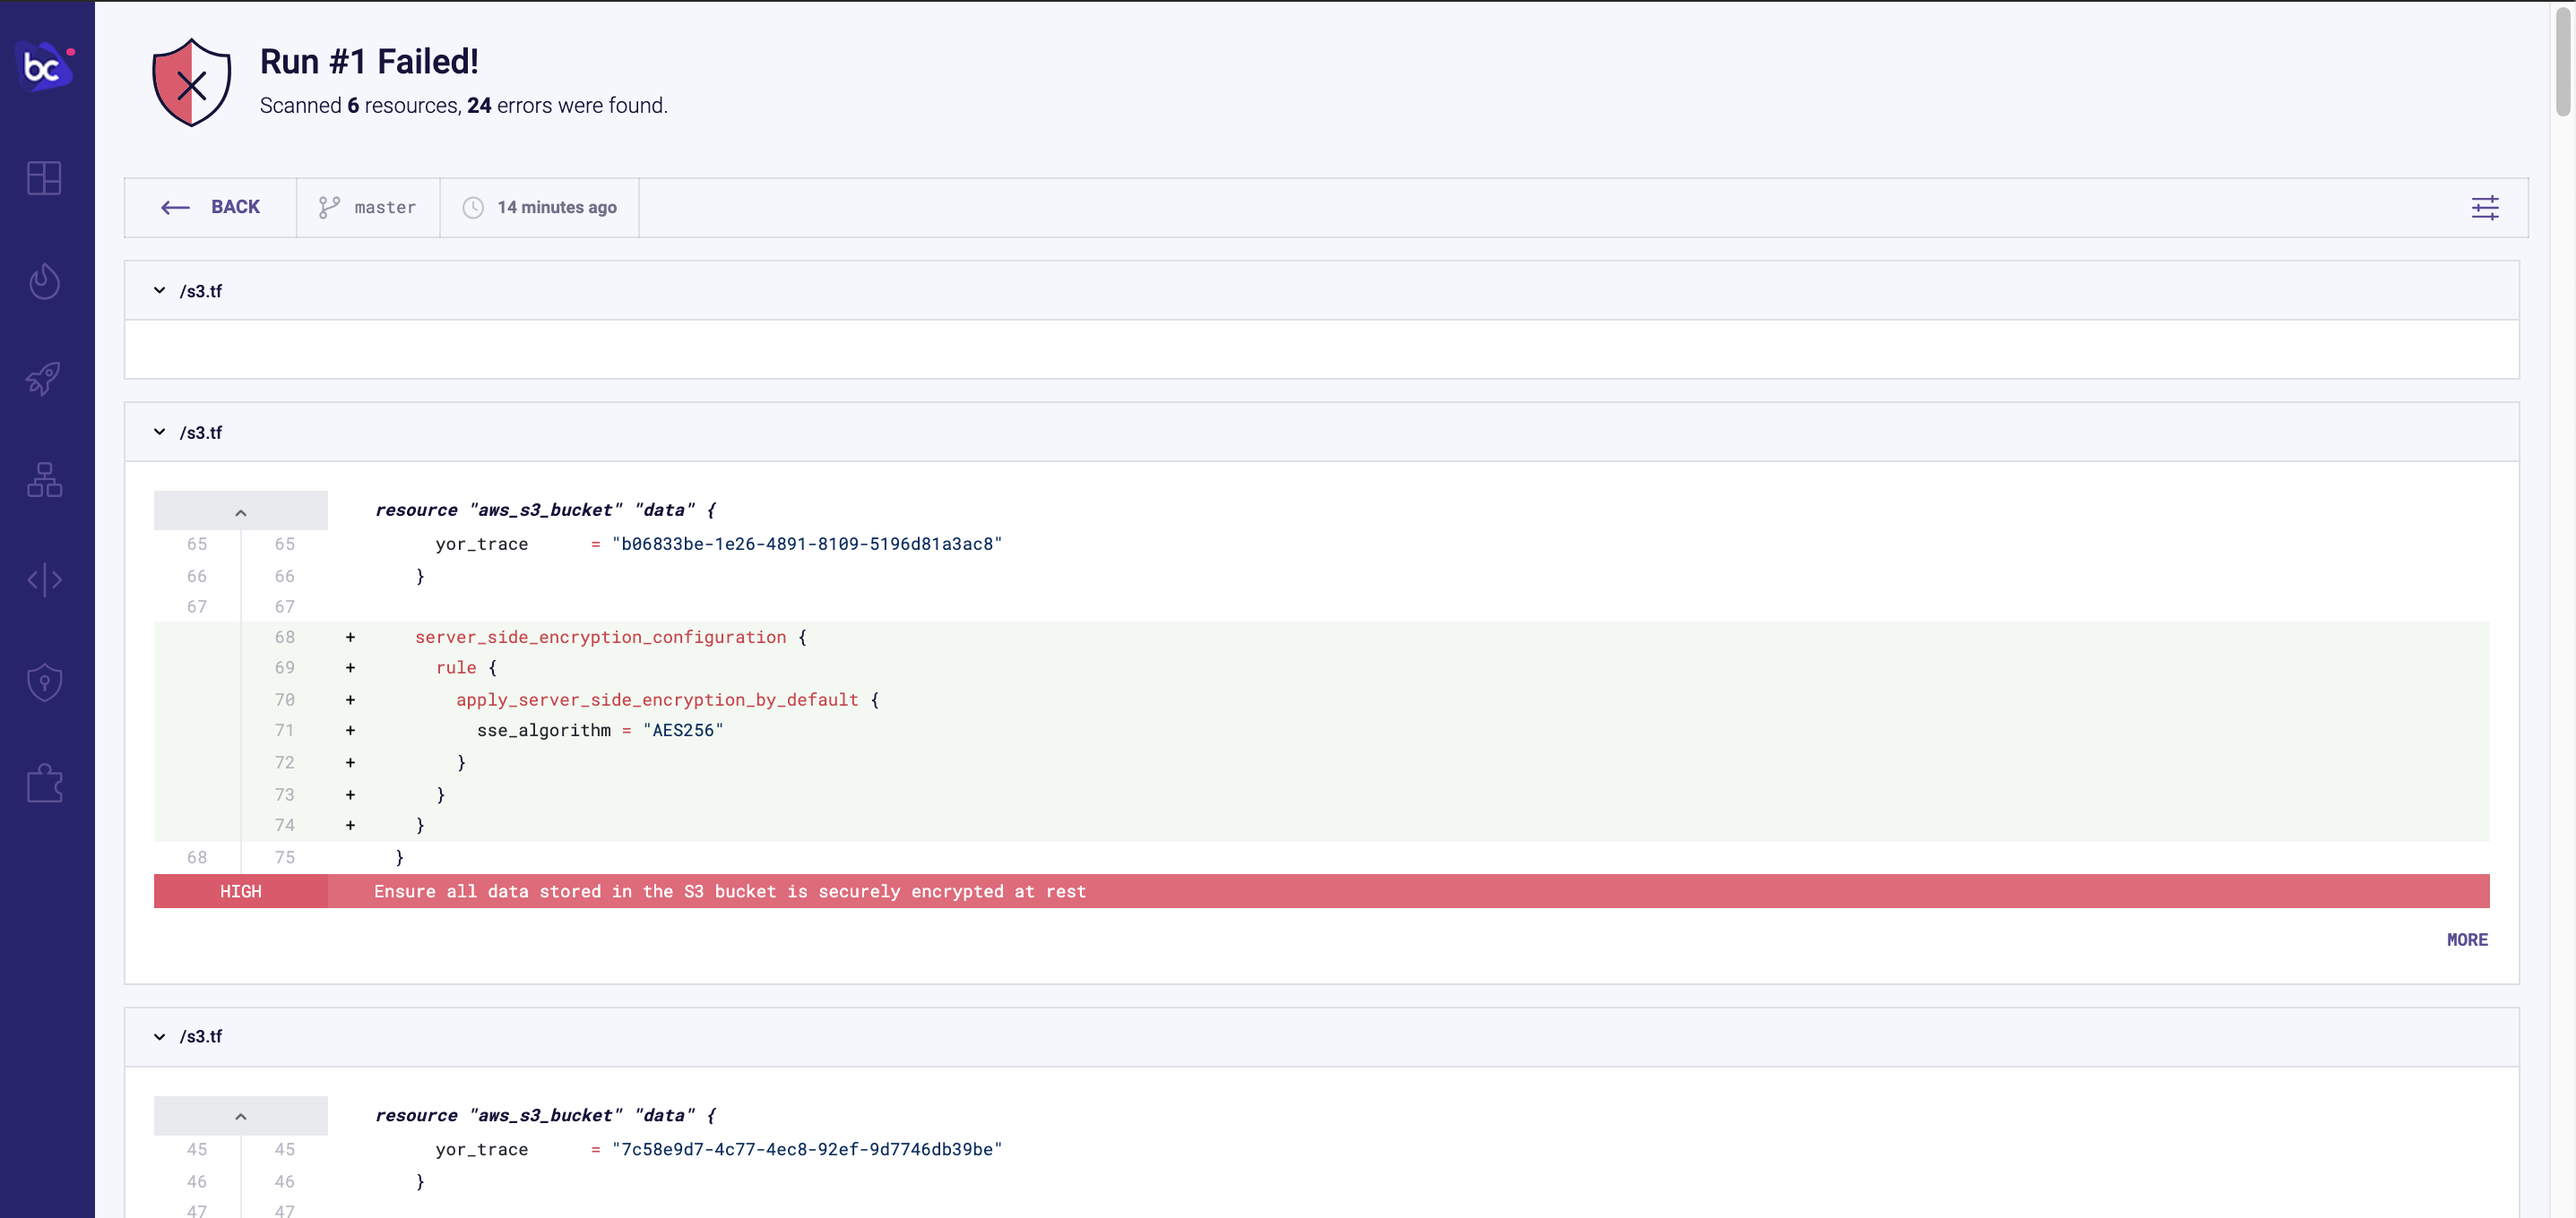
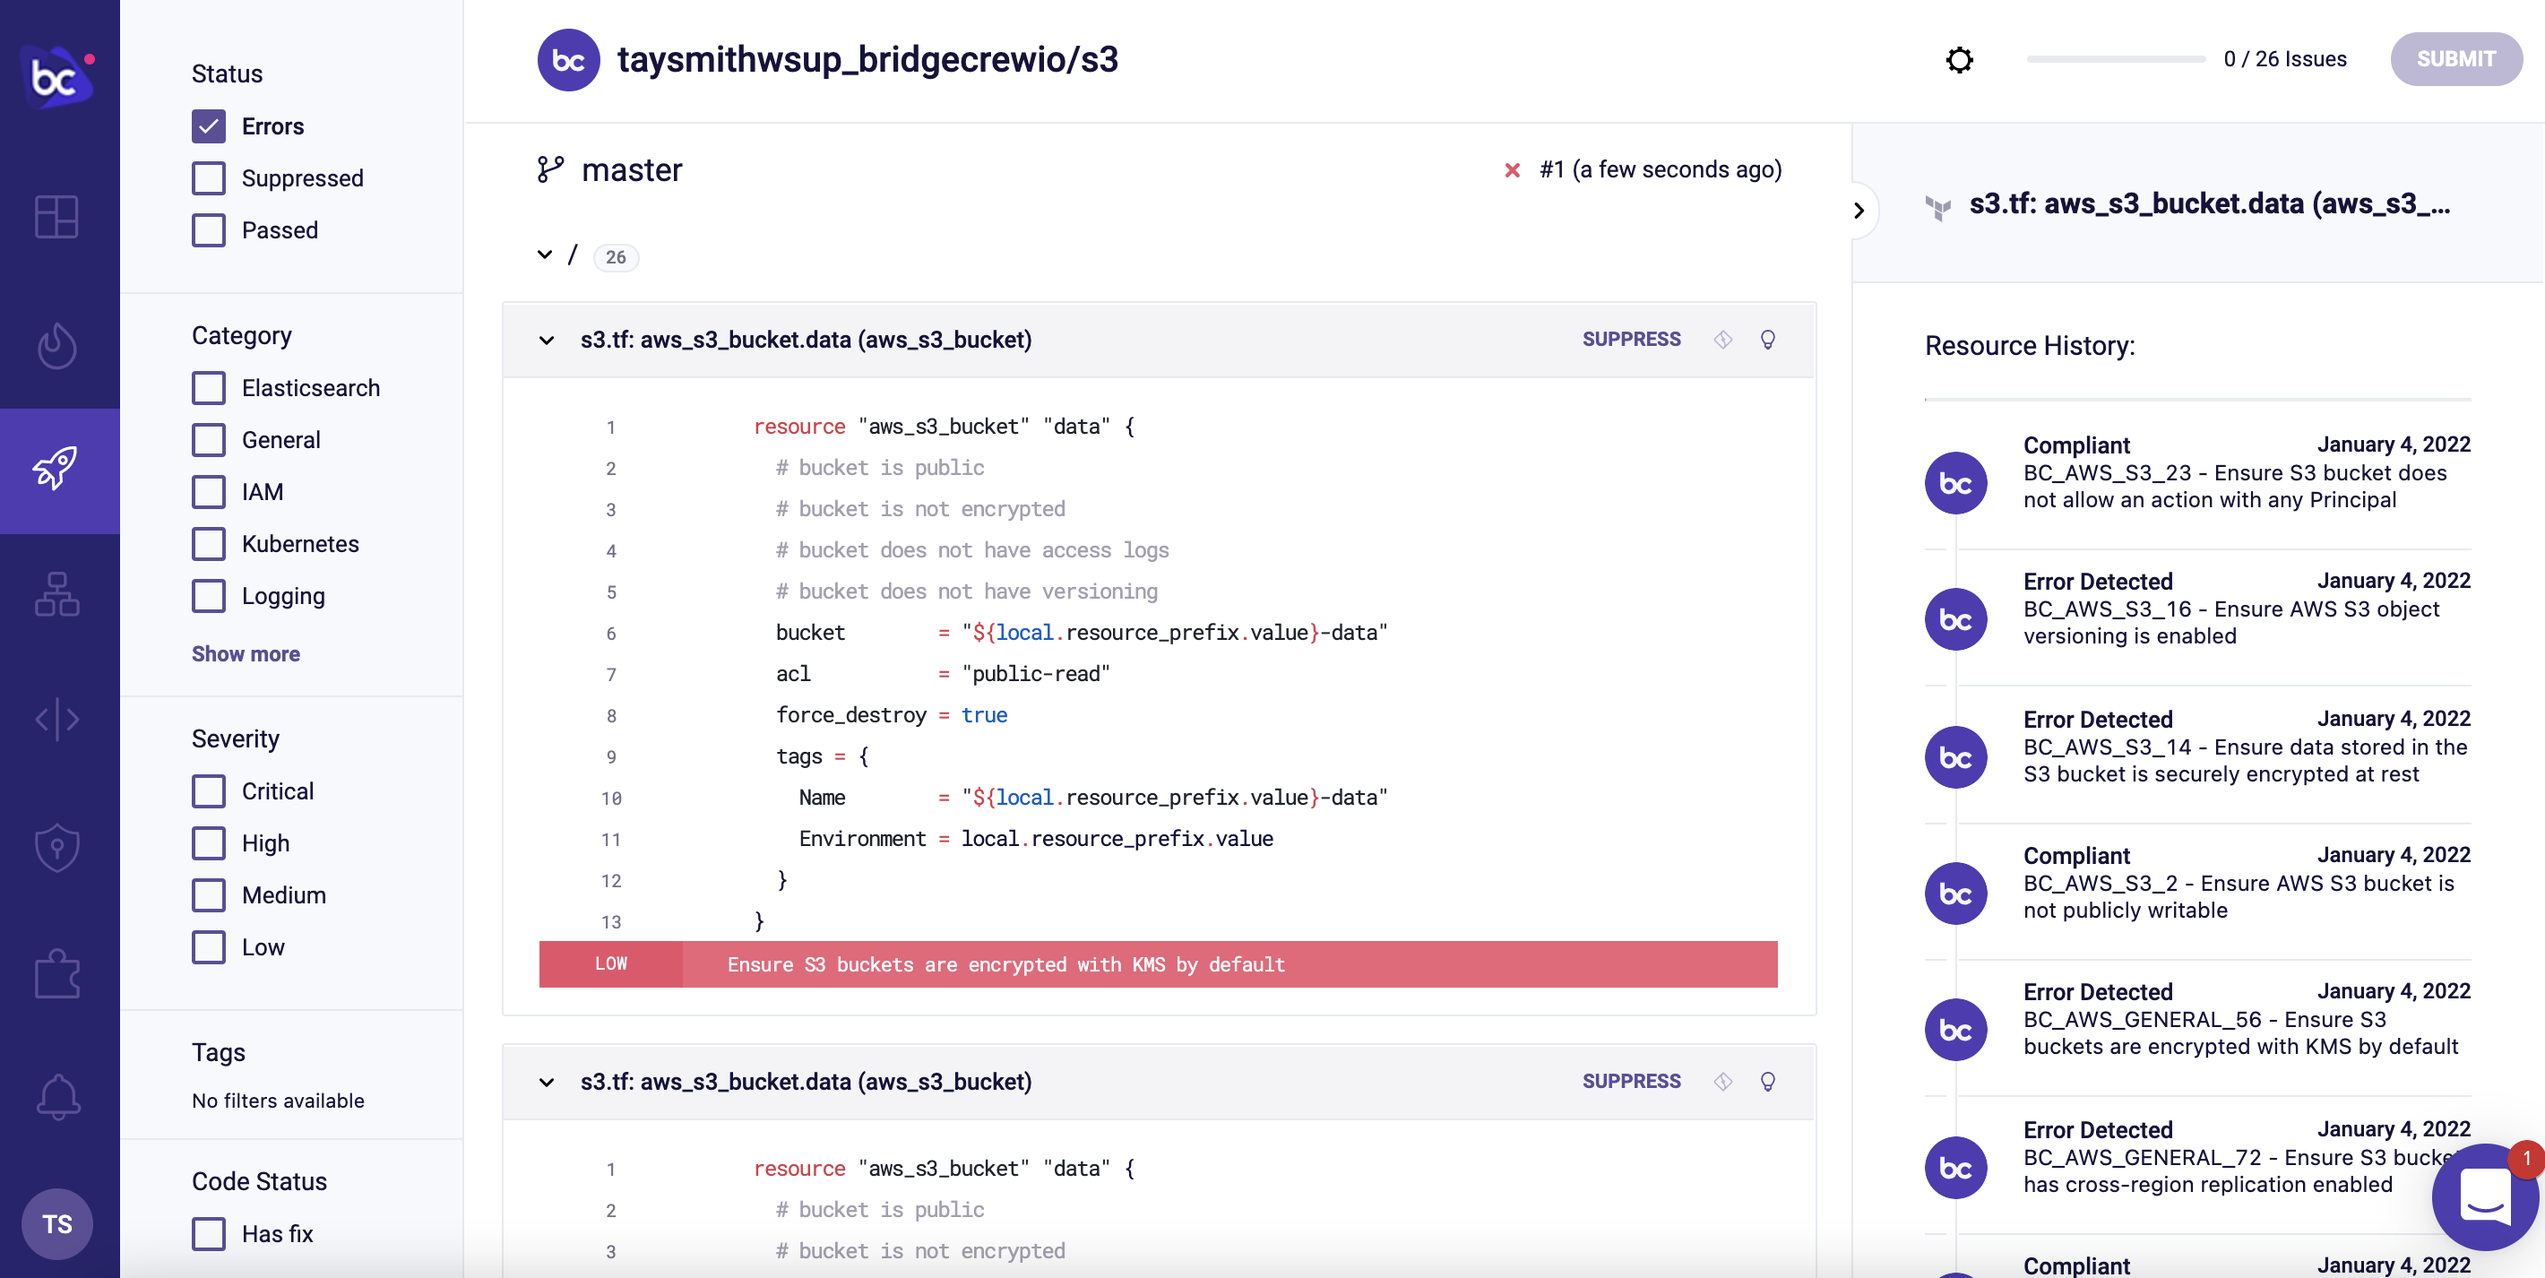
BC Dashboard new UX

diff --git a/content/terraform/30_module_one/1003_local_scan_dashboard.md b/content/terraform/30_module_one/1003_local_scan_dashboard.md
@@ -9,8 +9,6 @@ pre: "<b>4.3 </b>"
 
 You just scanned your Terraform templates locally using Checkov. If you included your API key, the results were sent to the [Bridgecrew platform](https://bridgecrew.cloud) for further investigation. You may have noticed the URL at the end of the CLI scan. That’s a direct link to the results in Bridgecrew.
 
-Click on that link to bring up that scan’s Code Review page. This is a list of all of the misconfigurations identified from that scan grouped by resource and labeled by severity.
+Click on that link to bring up that scan’s [Projects page](https://www.bridgecrew.cloud/projects), which is an aggregated view of the different Code Reviews across all scan types. This is a list of all of the misconfigurations identified from that CLI scan with filters, severity ratings, and more. We'll discuss this page in more detail later.
 
-![Bridgecrew Code Review](images/code_review.png "Bridgecrew Code Review")
-
-In a later section, we’ll review the [Projects page](https://www.bridgecrew.cloud/projects), which is an aggregated view of the different Code Reviews across all scan types.
+![Bridgecrew Projects Page](images/code_review.png "Bridgecrew Projects Page")
